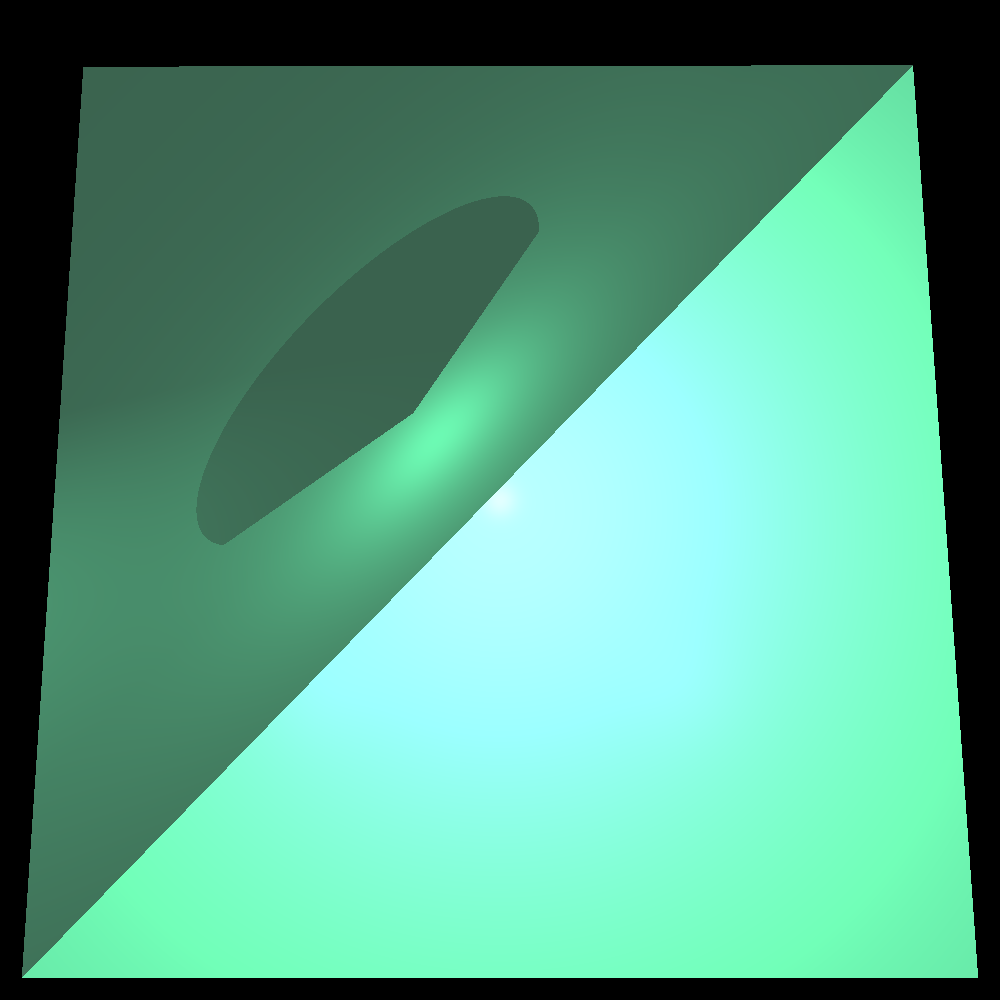
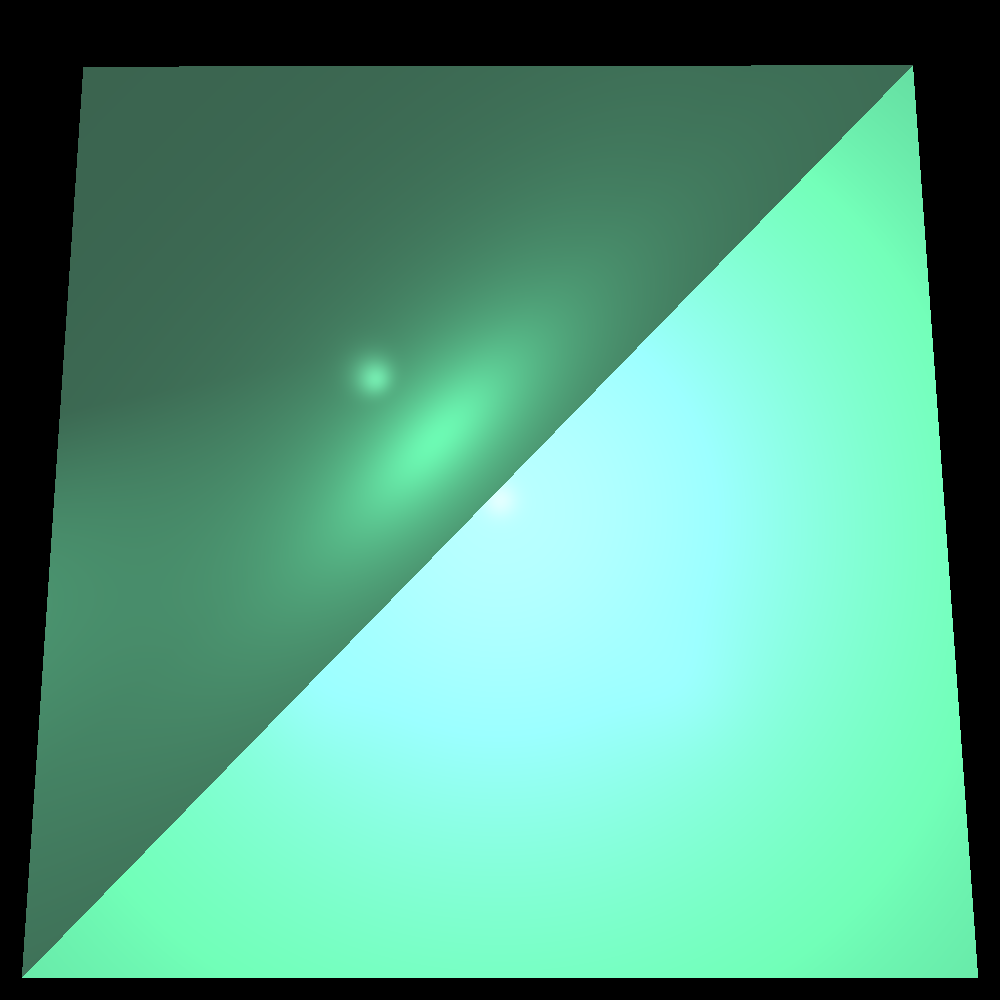
stage 7 first step

Changed region(s): [[0.186, 0.186, 0.558, 0.558]]

diff --git a/src/renderer/RayTracerBasic.java b/src/renderer/RayTracerBasic.java
@@ -56,7 +56,7 @@ public class RayTracerBasic extends RayTracerBase {
             if (intersections==null)
                 return true;
             for (GeoPoint intersectionPoint:intersections) {
-                if (lightDirection.distance(intersectionPoint.point) > gp.point.distance(intersectionPoint.point))
+                if (lightSource.getDistance(intersectionPoint.point) > gp.point.distance(intersectionPoint.point))
                     return false;
             }
             return true;
